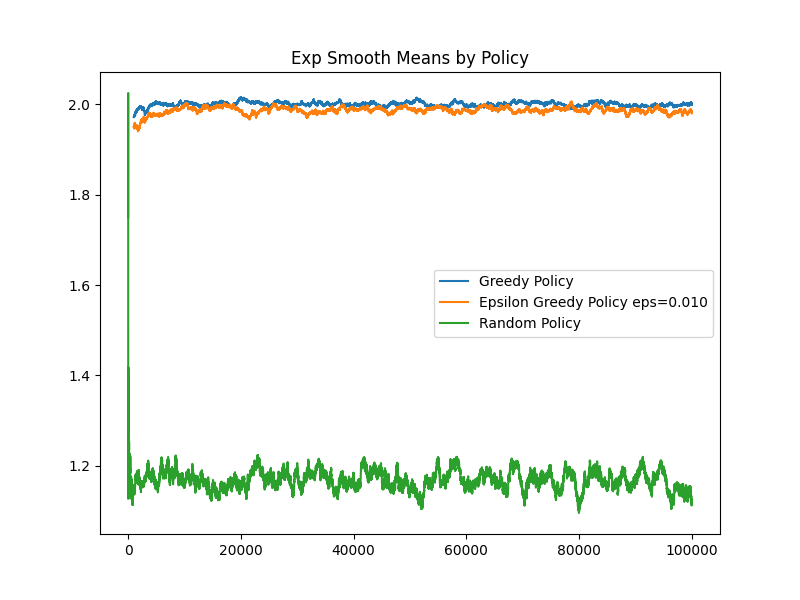
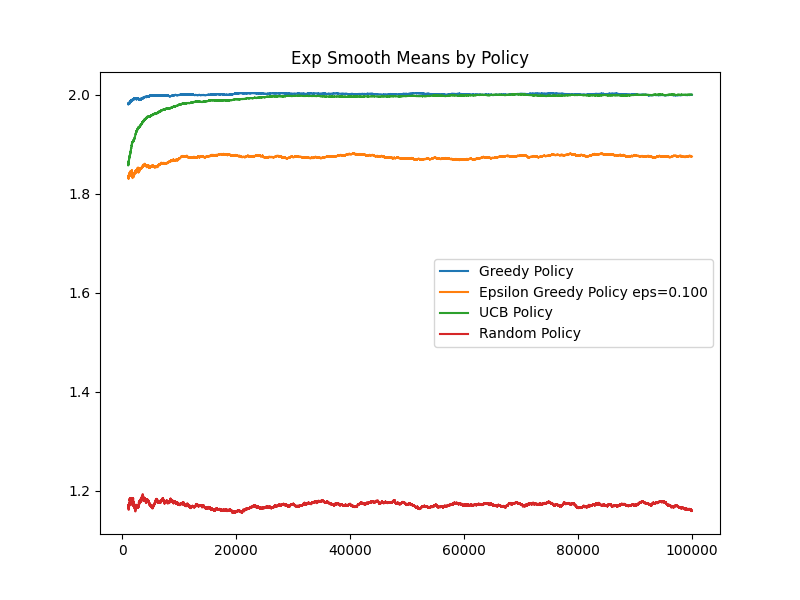
new scenarios

diff --git a/stationary_problem/simulate.py b/stationary_problem/simulate.py
@@ -1,10 +1,10 @@
-from environ import Policy, Greedy, EpsilonGreedy, RLEnviron
+from environ import Policy, Greedy, EpsilonGreedy, RLEnviron, UCB
 import os
 import numpy as np
 import pandas as pd
 import matplotlib.pyplot as plt
 
-def simulate_policy(env, policy, n):
+def simulate_policy(policy, n):
     print(policy)
     actions = []
     rewards = []
@@ -14,9 +14,9 @@ def simulate_policy(env, policy, n):
         actions.append(a)
         rewards.append(r)
         Q.append(q)
-    return np.array(actions), np.array(rewards), np.asarray(Q)
+    return np.array(actions), np.array(rewards), np.asarray(Q), policy.bandit_counts
 
-def summary_report(actions, rewards, Q):
+def summary_report(actions, rewards, Q, action_counts):
     print('- Average Reward: {:.3f}'.format(rewards.mean()))
     print(
         '- Final Q-values: [', 
@@ -25,8 +25,8 @@ def summary_report(actions, rewards, Q):
     )
     df = pd.DataFrame({'Action':actions, 'Reward':rewards})
     print('- Action Frequency: ',end='')
-    for t in df['Action'].value_counts().items():
-        print(t, end=' ')
+    for i,n in enumerate(action_counts):
+        print("{}:{}".format(i,n), end=' ')
     print()
     return df
 
@@ -40,31 +40,37 @@ def main():
     print(rlenv.opt_values())
 
     greedy = Greedy(rlenv, 5.0)
-    eps_greedy = EpsilonGreedy(0.01, rlenv, 5.0)
+    eps_greedy = EpsilonGreedy(0.1, rlenv, 5.0)
     rnd_policy = Policy(rlenv, 5.0)
+    ucb_policy = UCB(2.0, rlenv, 5.0)
 
     n_periods = 100000
     n_rolling = 1000
     n_warmup = 1000
-    ewmalpha = 0.001
+    ewmalpha = 0.0001
 
     grd = summary_report(
-        *simulate_policy(rlenv, greedy, n_periods)
+        *simulate_policy(greedy, n_periods)
     )
  
     egrd = summary_report(
-        *simulate_policy(rlenv, eps_greedy, n_periods)
+        *simulate_policy(eps_greedy, n_periods)
     )
 
     rpol = summary_report(
-        *simulate_policy(rlenv, rnd_policy, n_periods)
+        *simulate_policy(rnd_policy, n_periods)
+    )
+
+    ucb = summary_report(
+        *simulate_policy(ucb_policy, n_periods)
     )
 
     # FIGURE 1: EXP SMOOTH GRAPHS
     fig, ax = plt.subplots(figsize=(8, 6))
     grd['Reward'].rename(greedy).ewm(alpha=ewmalpha).mean()[n_warmup:].plot()
     egrd['Reward'].rename(eps_greedy).ewm(alpha=ewmalpha).mean()[n_warmup:].plot()
-    rpol['Reward'].rename('Random Policy').ewm(alpha=ewmalpha).mean().plot(ax=ax)    
+    ucb['Reward'].rename('UCB Policy').ewm(alpha=ewmalpha).mean()[n_warmup:].plot(ax=ax)    
+    rpol['Reward'].rename('Random Policy').ewm(alpha=ewmalpha).mean()[n_warmup:].plot(ax=ax)    
     plt.title('Exp Smooth Means by Policy')
     plt.legend()
     fig.savefig(os.path.join(path, 'Figure_1.png'))
@@ -74,6 +80,7 @@ def main():
     fig, ax = plt.subplots(figsize=(8, 6))
     grd['Reward'].rename(greedy).rolling(window=n_rolling).mean().plot(ax=ax)
     egrd['Reward'].rename(eps_greedy).rolling(window=n_rolling).mean().plot(ax=ax)
+    ucb['Reward'].rename('UCB Policy').rolling(window=n_rolling).mean().plot(ax=ax)    
     rpol['Reward'].rename('Random Policy').rolling(window=n_rolling).mean().plot(ax=ax)
     plt.title(f'Rolling Means (mem={n_rolling}) by Policy')
     plt.legend()
@@ -82,10 +89,10 @@ def main():
 
     # FIGURE 3: First Iterations
     fig, ax = plt.subplots(figsize=(8, 6))
-    grd['Action'][:100].plot(kind='hist', ax=ax)
-    grd['Reward'][:100].plot(secondary_y=True,ax=ax)
+    ucb['Action'][:100].plot(ax=ax, style='r-o', linewidth=.25)
+    ucb['Reward'][:100].plot(secondary_y=True,ax=ax)
     plt.legend()
-    plt.title("First 100 Iterations of Greedy Policy")
+    plt.title("First 100 Iterations of UCB Policy")
     fig.savefig(os.path.join(path, 'Figure_3.png'))
     plt.close()
 

diff --git a/stationary_problem/environ.py b/stationary_problem/environ.py
@@ -90,6 +90,8 @@ class Policy:
         self.Q = np.array([initial_value for _ in range(env.get_size())])
         self.step_size = step_size
 
+        self.bandit_counts = np.zeros(self.env.get_size(), dtype=np.int32)
+
     def select_action(self):
         """
         Select Random Option by Default
@@ -104,6 +106,7 @@ class Policy:
         reward = self.env.k_outcome(action)
         self.q_update(action, reward)
         self.s_update()
+        self.bandit_counts[action] += 1
         return action, reward, self.Q
 
     def s_update(self):
@@ -168,6 +171,39 @@ class Greedy(Policy):
         return "Greedy Policy"
 
 
+class UCB(Policy):
+    """
+    Upper-Confidence-Bound Policy Sub-Class
+    """
+
+    def __init__(
+        self, 
+        c_param: float,
+        env: RLEnviron, 
+        initial_value: float, 
+        step_size: float = 1
+        ) -> None:
+        super().__init__(env, initial_value, step_size)
+
+        if self.env.get_size() < 1:
+            raise RuntimeError("Environment is Empty")
+        if c_param <= 0:
+            raise ValueError("c Parameter Non-Nositive")
+        self.c_param = c_param
+
+    def select_action(self):
+        zero_count = np.where(self.bandit_counts==0)[0]
+        if zero_count.size > 0:
+            return np.random.choice(zero_count)
+
+        t = self.bandit_counts.sum()
+        crit = self.Q.copy()
+        crit += self.c_param * np.sqrt(np.log(t)/self.bandit_counts)
+        return np.argmax(crit)
+        
+    def __repr__(self):
+        return "UCB Policy({})".format(self.c_param)
+
 def main():
     path = 'stationary_problem'
     file = 'bandits.csv'
@@ -175,13 +211,16 @@ def main():
 
     print(rlenv)
 
-    eps_greedy = EpsilonGreedy(0.1, rlenv, 5.0)
+    np.random.seed(2022)
+    ucb_policy = UCB(0.1, rlenv, 5.0)
 
-    print(eps_greedy)
+    print(ucb_policy)
     for i in range(10):
-        action, reward, q = eps_greedy.update()
+        action, reward, q = ucb_policy.update()
         fmt = "Action:{:2d} Reward:{:6.3f} Q:{}"
         print(fmt.format(action, reward, np.round(q,2)))
+
+    print("Bandit Counts = ", ucb_policy.bandit_counts)
 
 
 if __name__ == '__main__':
